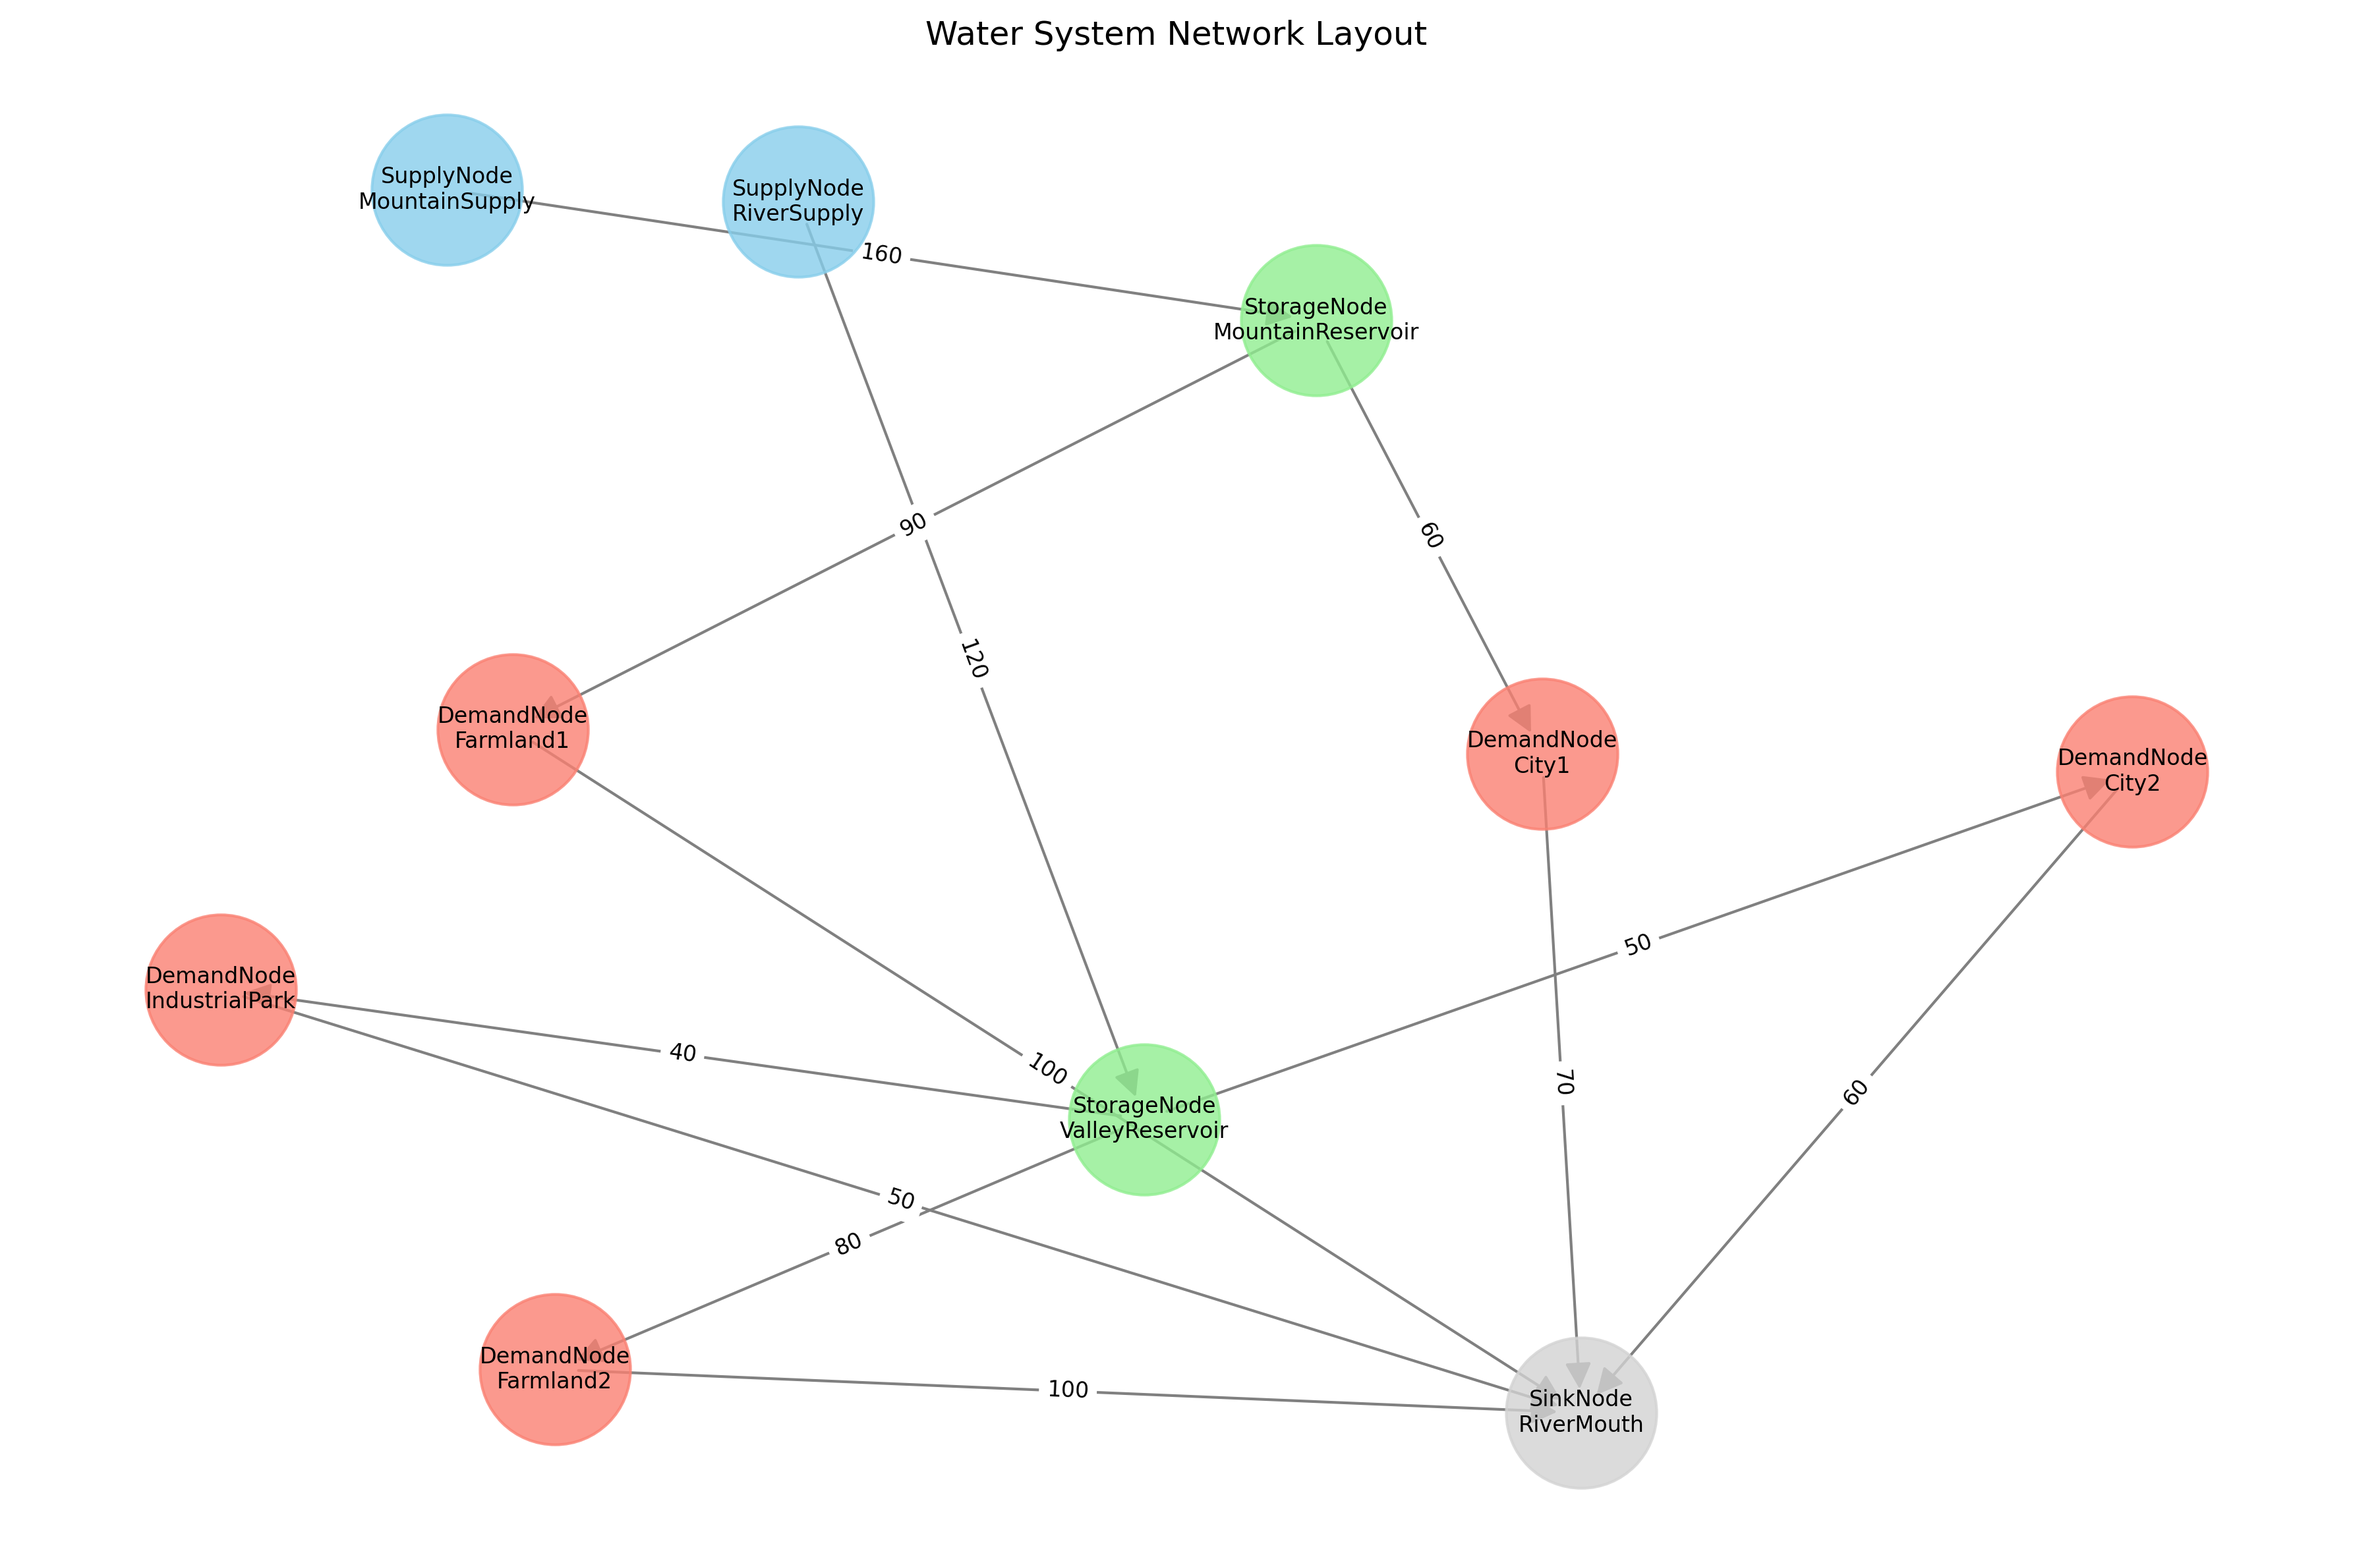
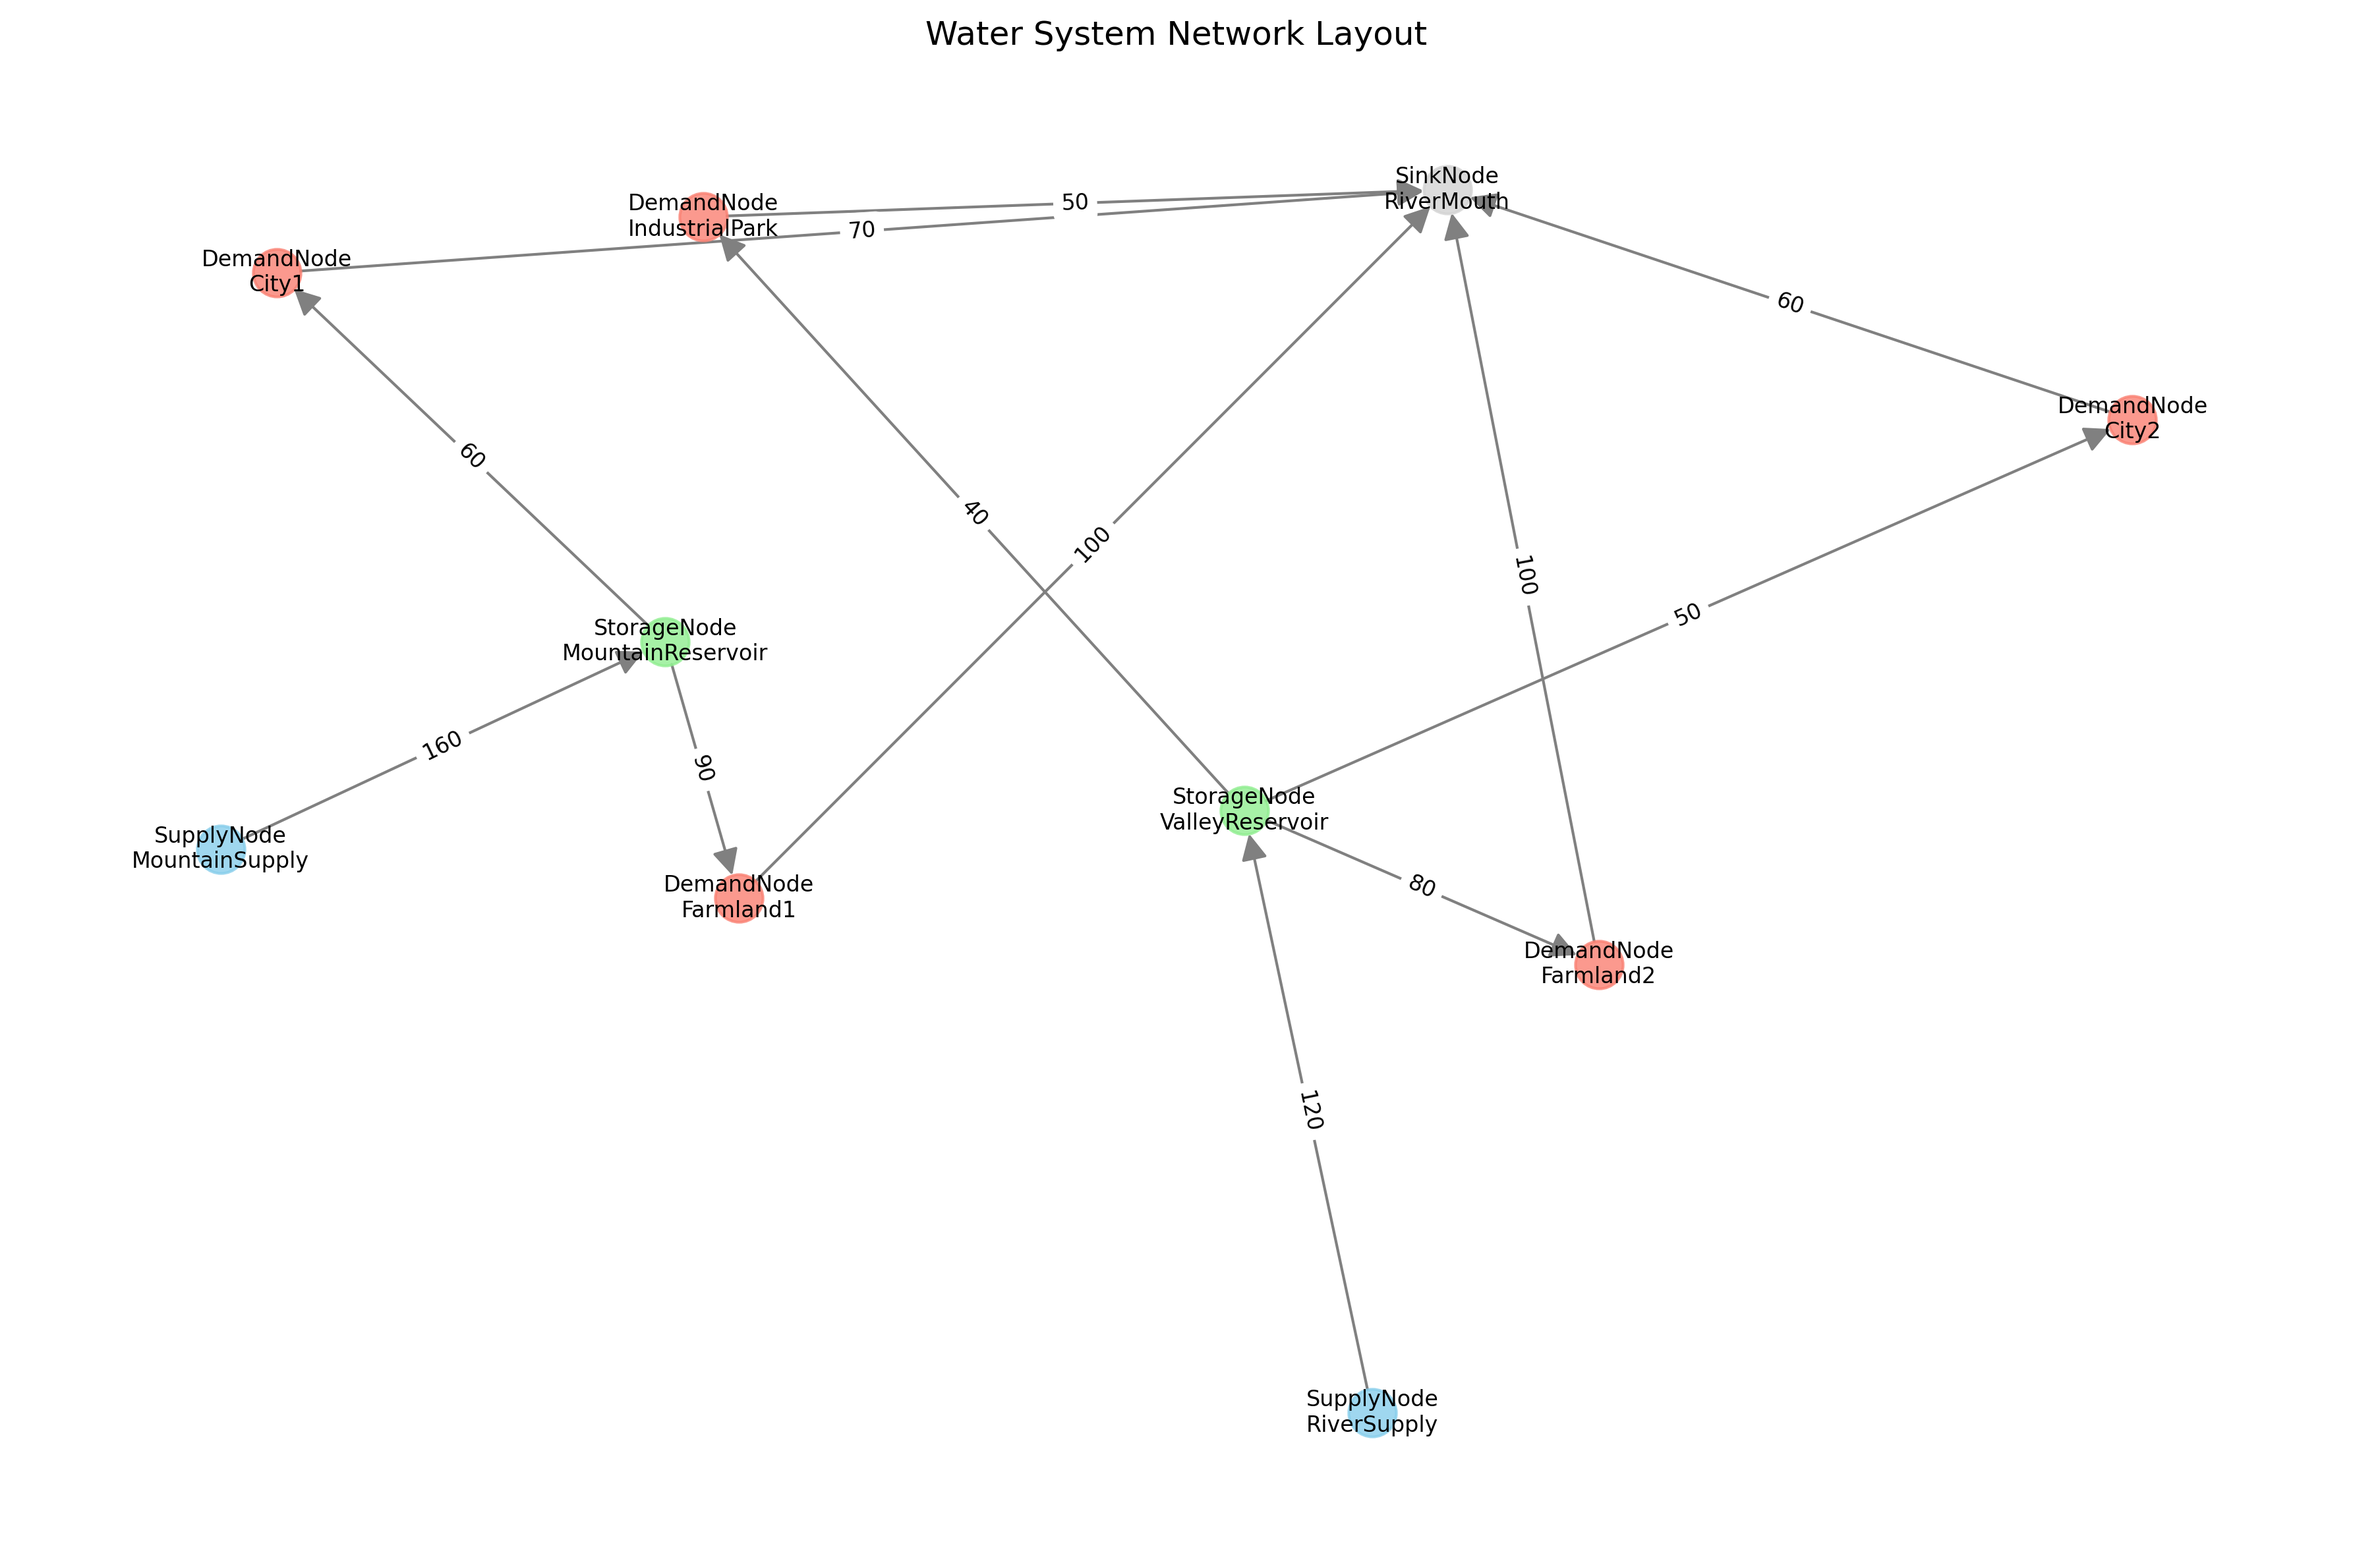
Updated Water System Simulation Project Summary

diff --git a/sample_tests.py b/sample_tests.py
@@ -175,7 +175,7 @@ def plot_network_layout(water_system, filename):
     
     for node_type, color in node_colors.items():
         node_list = [node for node, data in G.nodes(data=True) if isinstance(data['node'], node_type)]
-        nx.draw_networkx_nodes(G, pos, nodelist=node_list, node_color=color, node_size=3000, alpha=0.8)
+        nx.draw_networkx_nodes(G, pos, nodelist=node_list, node_color=color, node_size=300, alpha=0.8)
     
     nx.draw_networkx_edges(G, pos, edge_color='gray', arrows=True, arrowsize=20)
     

diff --git a/water-system-project-summary.md b/water-system-project-summary.md
@@ -1,88 +1,58 @@
 # Water System Simulation Project Summary
 
-## Change Log
-- 2024-10-07: Initial setup.
-
 ## Project Overview
 We've developed a Python package for simulating and optimizing water flow in a network system. The package uses NetworkX for graph representation and matplotlib for visualization.
 
-## Package Structure
-The package is structured as follows:
-```
-water_system/
-│
-├── __init__.py
-├── water_system.py
-├── structure.py
-└── edge.py
-```
-
 ## Key Components
 
-1. `__init__.py`: 
-   - Imports main classes
-   - Defines `__all__` for explicit imports
-   - Sets `__version__` to '0.1.0'
-
-2. `edge.py`:
-   - Defines the `Edge` class
-   - Manages water flow between nodes
-   - Handles capacity constraints
-
-3. `structure.py`:
-   - Defines various node types:
-     - `Node` (base class)
-     - `SupplyNode`
-     - `SinkNode`
-     - `DemandNode`
-     - `StorageNode`
-     - `DiversionNode`
-     - `ConfluenceNode`
-   - Each node type has specific behavior for handling water flows
-
-4. `water_system.py`:
-   - Defines the `WaterSystem` class
-   - Manages the overall water system simulation
-   - Provides methods for:
-     - Adding nodes and edges
-     - Running simulations
-     - Visualizing the system
+1. `WaterSystem` class: Manages the overall water system simulation.
+2. Node classes:
+   - `SupplyNode`: Represents water sources
+   - `StorageNode`: Represents reservoirs or storage facilities
+   - `DemandNode`: Represents points of water consumption
+   - `SinkNode`: Represents endpoints where water exits the system
+3. `Edge` class: Represents connections between nodes
 
 ## Key Features
-- Object-oriented design for easy extensibility
 - Simulation of water flow over multiple time steps
-- Visualization of the water system using a multipartite layout
-- Color-coded nodes based on type (supply, storage, demand)
-- Edge labels showing final flow values
+- Water balance calculations for each node
+- CSV output of simulation results
+- Visualization of time series data
+- Network layout plots
 
-## Documentation
-We've added comprehensive documentation to all modules, including:
-- Module-level docstrings
-- Class-level documentation
-- Method-level documentation following Google Python Style Guide
+## Recent Enhancements
+1. CSV Output: Added functionality to save water balance data to CSV files.
+2. Time Series Plots: Implemented plotting of all time series in one figure for each system.
+3. Network Layout Plots: Added visualization of the network structure for each system.
 
-## README
-We've created a detailed README.md file explaining:
-- Project overview
-- Features
-- Installation instructions
-- Basic usage example
-- Visualization capabilities
-- Future development ideas
+## Sample Test Systems
+Three sample test systems have been implemented:
+1. Simple System: Basic setup with one supply, one storage, two demands, and one sink.
+2. Complex System: More intricate network with multiple supplies, storages, and demands.
+3. Drought System: System with variable supply to simulate alternating normal and drought conditions.
 
-## Current State
-The basic functionality is implemented and documented. The system can simulate water flow and visualize results.
+## Current Functionality
+- `create_simple_system()`, `create_complex_system()`, `create_drought_system()`: Functions to create sample water systems
+- `save_water_balance_to_csv()`: Saves simulation results to a CSV file
+- `plot_water_system()`: Creates time series plots of the simulation results
+- `plot_network_layout()`: Generates a network layout plot of the water system
+- `run_sample_tests()`: Runs simulations on all sample systems, generating CSV outputs and plots
 
 ## Next Steps
-Potential areas for future development include:
-1. Implementing more complex node behaviors
-2. Adding water quality modeling
-3. Incorporating optimization algorithms
-4. Developing a user interface
-5. Implementing data import/export features
-6. Adding support for stochastic simulations
-7. Creating methods for detailed analysis of simulation results
-8. Adding functionality to save and load system configurations
-9. Extending visualization to show system dynamics over time
+1. Further stress testing of the system under various conditions
+2. Implementing more complex node behaviors
+3. Adding water quality modeling
+4. Incorporating optimization algorithms
+5. Developing a user interface
+6. Implementing data import/export features
+7. Adding support for stochastic simulations
+8. Creating methods for detailed analysis of simulation results
+9. Adding functionality to save and load system configurations
+10. Extending visualization to show system dynamics over time
+
+## Dependencies
+- NetworkX
+- Matplotlib
+- Pandas
 
 This summary covers the main points of our work on the water system simulation project. When starting a new conversation, you can provide this summary to quickly bring me up to speed on the project's current state and context.

diff --git a/git_commit strategy.md b/git_commit strategy.md
@@ -1,0 +1,25 @@
+# Commit strategy
+
+In Python programming, and software development in general, committing often is considered a good practice in most cases, but it depends on the type of commits being made. Here’s why frequent commits are beneficial and what you should keep in mind:
+
+Benefits of Frequent Commits:
+
+	1.	Track Progress: Regular commits create a history of changes, making it easier to track your progress and understand what has been done over time.
+	2.	Easier Debugging: Frequent commits allow you to isolate bugs more effectively. If something breaks, you can identify the problem by comparing small changes instead of searching through large batches of code.
+	3.	Clear Checkpoints: Each commit acts as a checkpoint. If something goes wrong, you can easily roll back to a previous state without losing much work.
+	4.	Collaborative Development: If you’re working in a team, frequent commits help keep your code in sync with others, reducing the likelihood of conflicts when merging changes.
+	5.	Granularity: Smaller, focused commits that address specific tasks or bug fixes are easier to review and understand than larger, infrequent commits.
+
+Best Practices for Committing:
+
+	•	Commit small, logical units of work: Each commit should ideally represent a single feature, bug fix, or a coherent change. This makes it easier to understand and manage.
+	•	Use clear, descriptive commit messages: Explain what was changed and why, so that you and others can easily understand the history of the project.
+	•	Commit when tests pass: It’s a good practice to commit code that passes tests or is in a stable state, even if it’s a small change.
+	•	Avoid committing broken code: Although you should commit frequently, avoid committing incomplete or non-functional code unless you are working on a separate branch.
+
+When to Commit Seldom:
+
+	•	If you’re making trivial changes (e.g., tweaking formatting or adding comments) that don’t affect functionality, you don’t need to commit each time.
+	•	It’s also best to avoid committing very experimental code unless it’s isolated in a feature branch, as this could clutter the main codebase.
+
+In summary, frequent, well-scoped commits with meaningful messages are usually preferable. This allows for better project management and collaboration.
